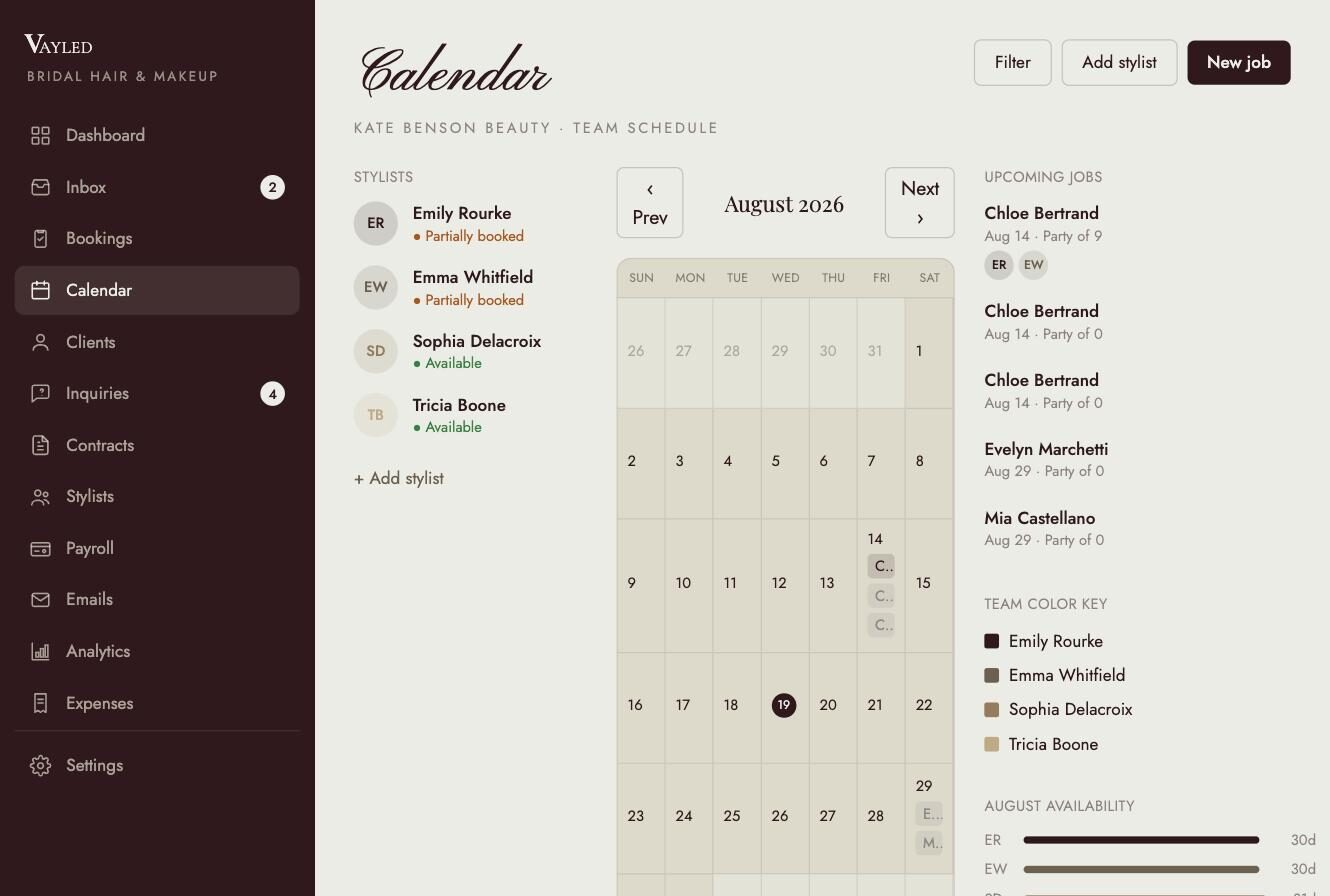
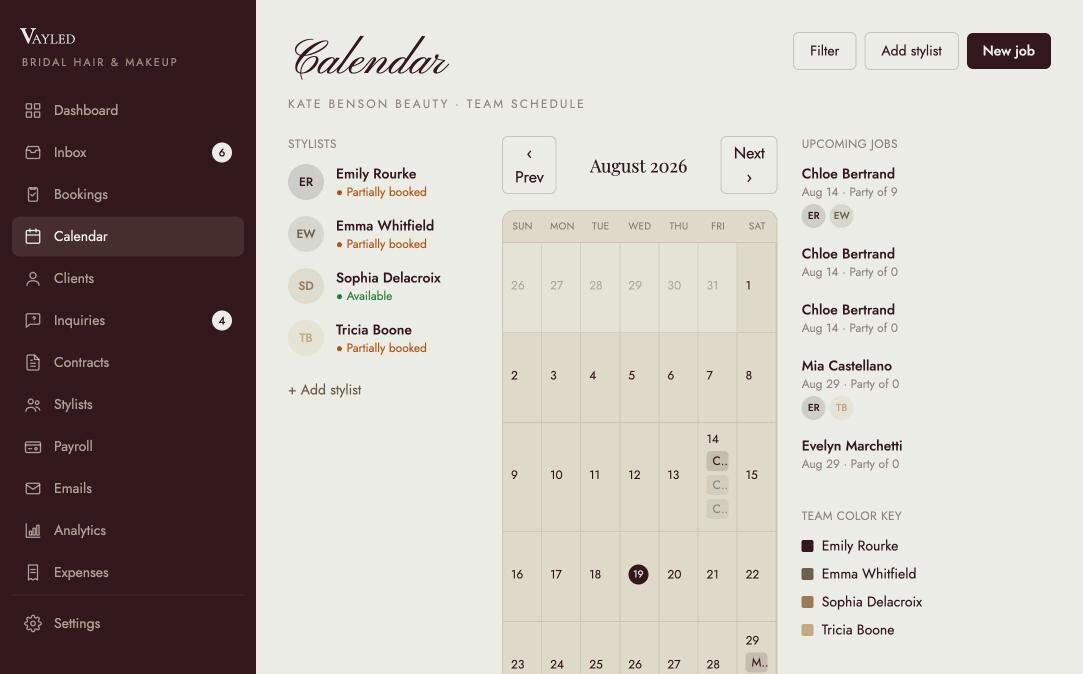
Refresh calendar screenshot and highlight lead/assist stylist assignment

diff --git a/app/(marketing)/features/page.tsx b/app/(marketing)/features/page.tsx
@@ -19,7 +19,7 @@ const SECTIONS = [
     label: "Calendar",
     src: "/marketing/calendar.jpg",
     title: "See every booking without guessing",
-    body: "Click any day to see everything on it — brides, venues, party size, and which stylists are already assigned — before you say yes to something that conflicts.",
+    body: "Click any day to see everything on it — brides, venues, party size, and which stylists are already assigned. Assign a lead and an assist stylist to every job right from the calendar, so everyone knows their role before you say yes to something that conflicts.",
   },
   {
     label: "Trial scheduling",

diff --git a/CHANGELOG.md b/CHANGELOG.md
@@ -2,6 +2,10 @@
 
 Running log of changes requested while testing the app. Newest first.
 
+## 2026-08-19 (34)
+
+- **Refreshed calendar marketing screenshot** now that jobs have stylists assigned, and updated the Calendar feature copy on /features to call out assigning a lead and an assist stylist to each job.
+
 ## 2026-08-19 (33)
 
 - **Filled the last 2 placeholder screenshots on /features** — "Inquiry form" and "Smart reminders" were rendering the gradient placeholder panel since they had no image. Added a real screenshot of the public inquiry form and the dashboard's Reminders panel.
